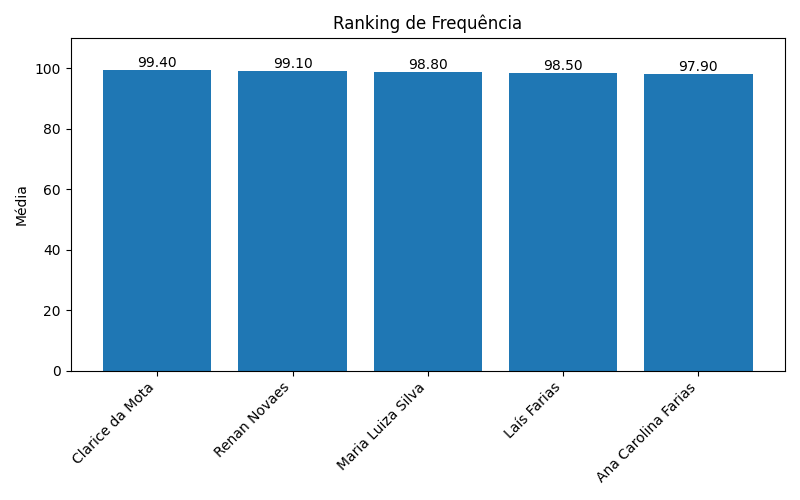
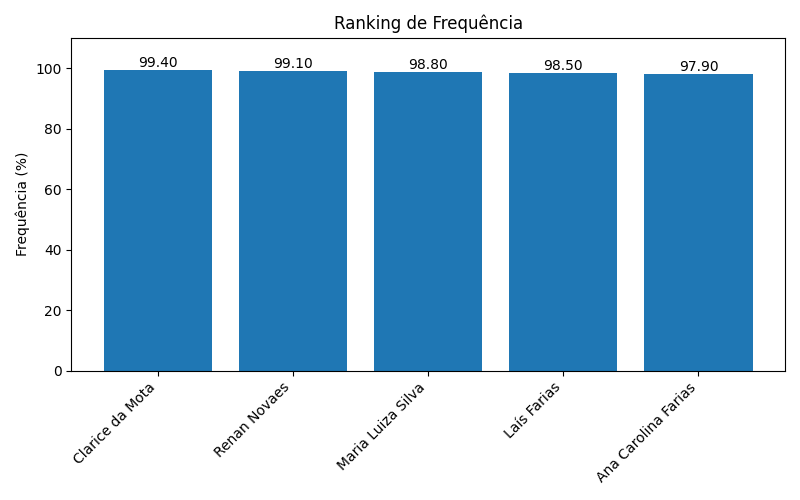
bugfix: typo

diff --git a/visualizacao.py b/visualizacao.py
@@ -95,7 +95,7 @@ def visualizar_rank_frequencia(base: pandas.DataFrame):
     # Gráfico de barras
     plt.figure(figsize=(8, 5))
     plt.bar(base_freq['nome'], base_freq['frequencia'])
-    plt.ylabel('Média')
+    plt.ylabel('Frequência (%)')
     plt.title('Ranking de Frequência')
     plt.ylim(0, 110)
     plt.xticks(rotation=45, ha='right')
